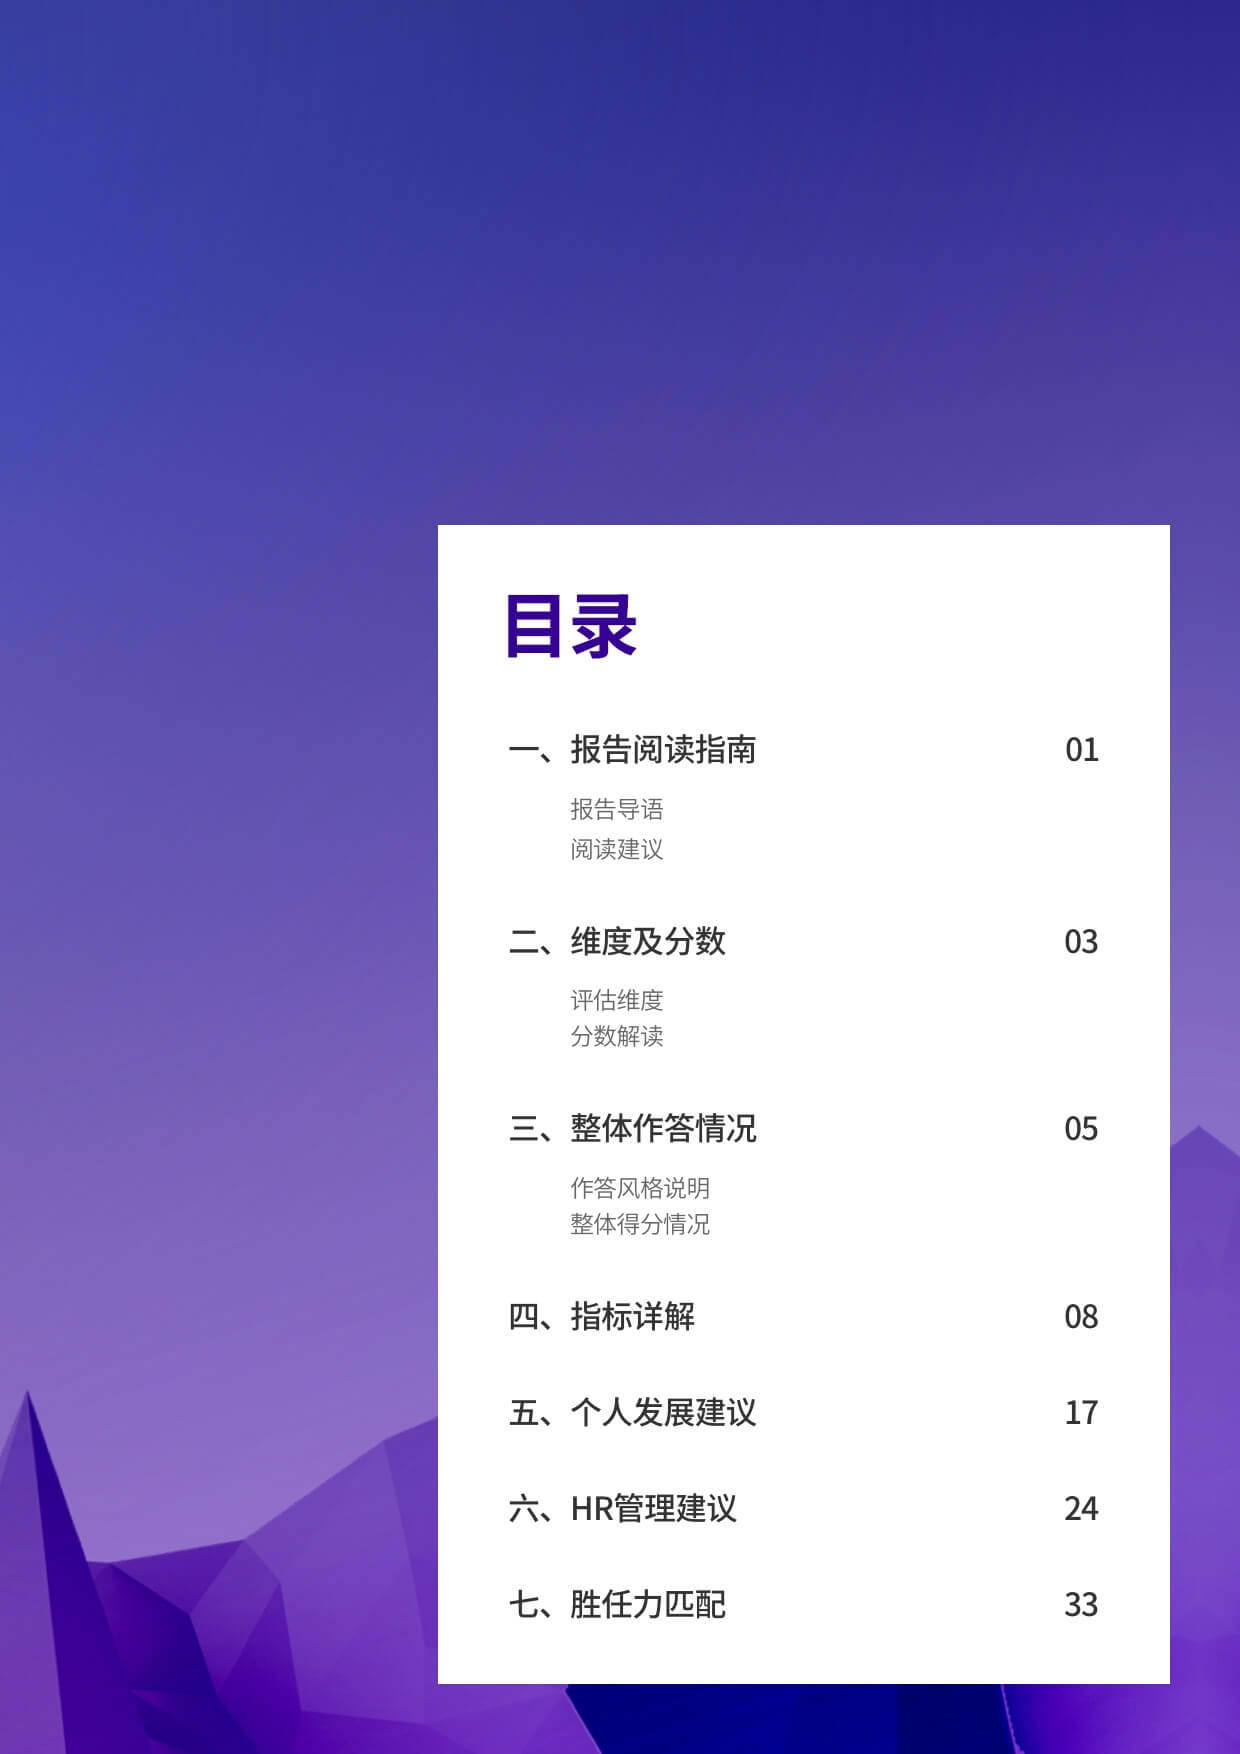
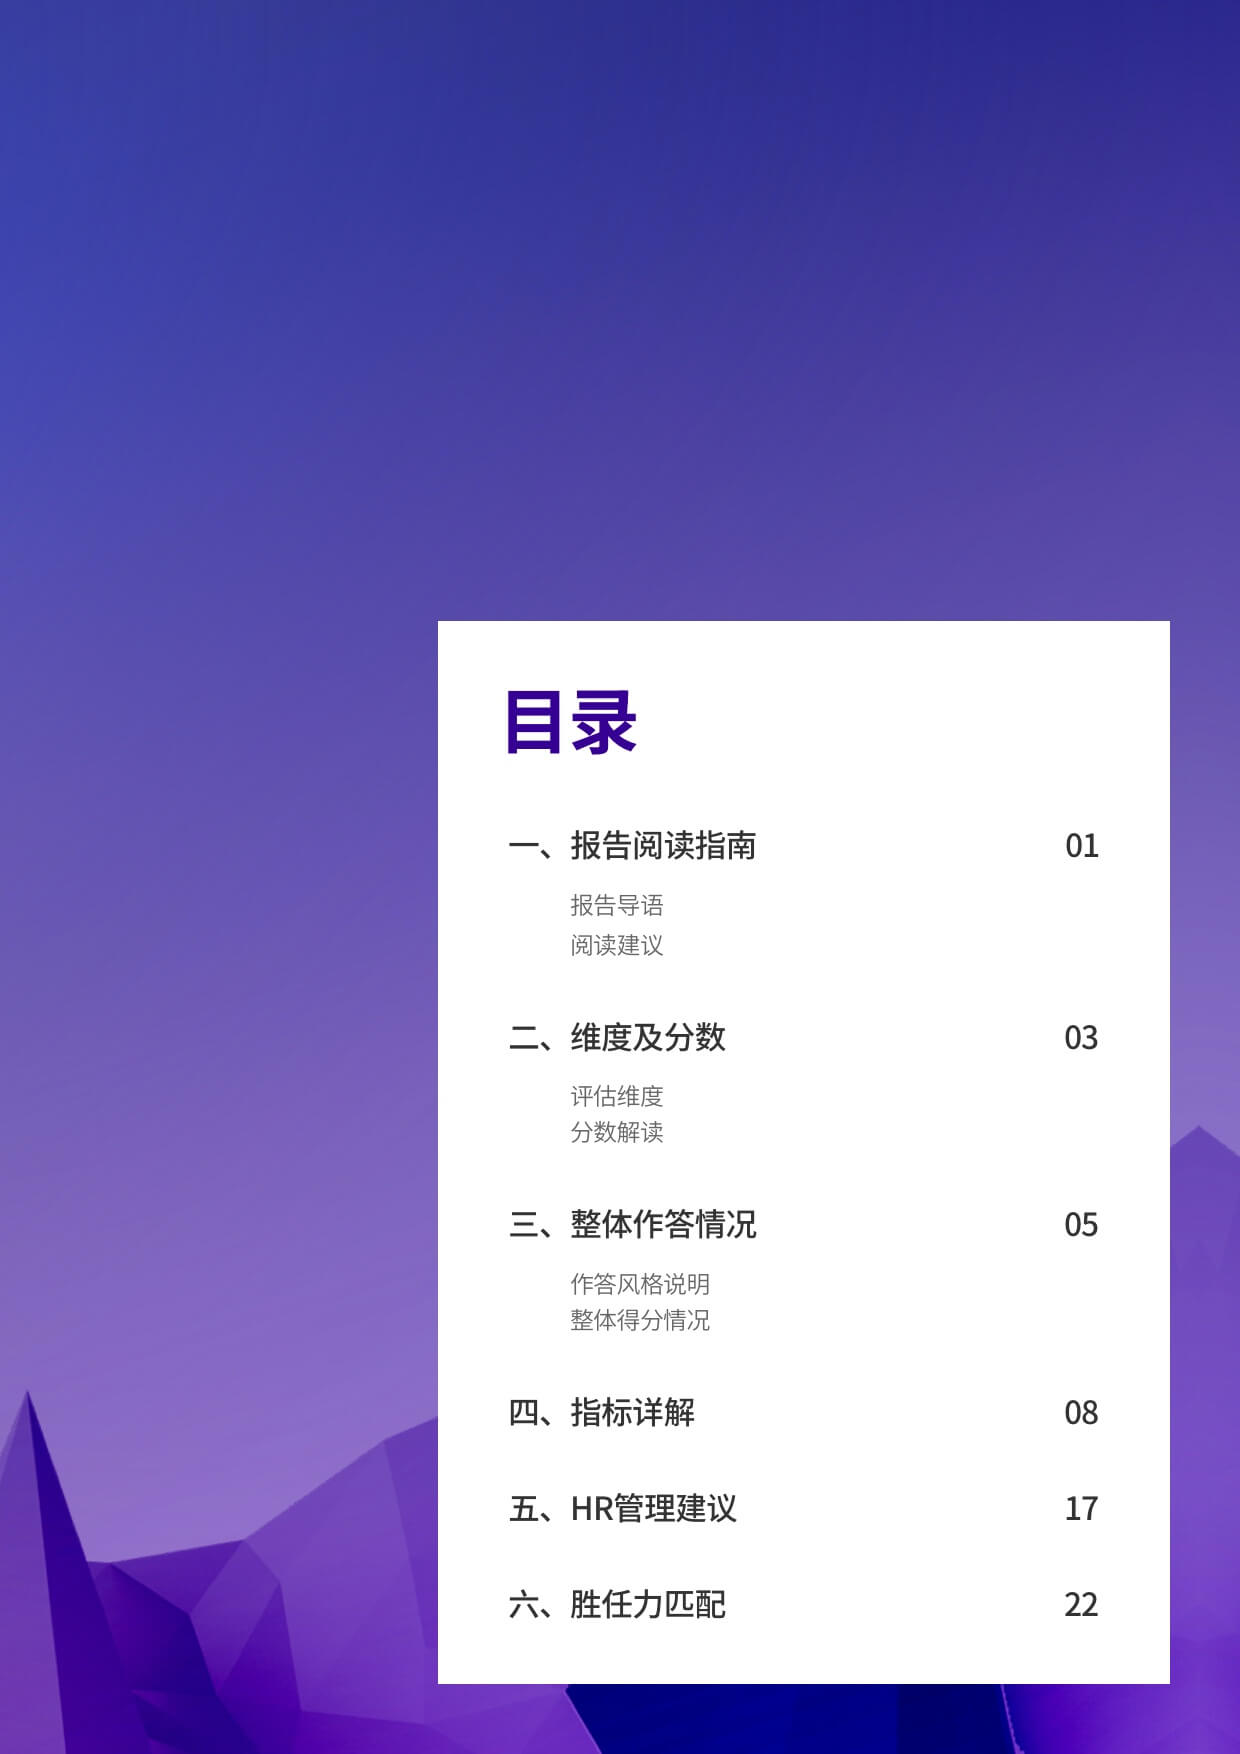
对齐页码 删除 Part...

diff --git a/pdf-1-4-recruitment/pdf.html b/pdf-1-4-recruitment/pdf.html
@@ -229,7 +229,7 @@
       <!-- 页眉 -->
       <div class="page-header">
         <div class="header-text">
-          Part 4 结果详解
+          
         </div>
         <div class="header-img">
           <img src="./static/logo.png" alt="">
@@ -293,7 +293,7 @@
       <!-- 页眉 -->
       <div class="page-header">
         <div class="header-text">
-          Part 4 结果详解
+          
         </div>
         <div class="header-img">
           <img src="./static/logo.png" alt="">
@@ -360,7 +360,7 @@
       <!-- 页眉 -->
       <div class="page-header">
         <div class="header-text">
-          Part 4 结果详解
+          
         </div>
         <div class="header-img">
           <img src="./static/logo.png" alt="">
@@ -427,7 +427,7 @@
       <!-- 页眉 -->
       <div class="page-header">
         <div class="header-text">
-          Part 4 结果详解
+          
         </div>
         <div class="header-img">
           <img src="./static/logo.png" alt="">
@@ -494,7 +494,7 @@
       <!-- 页眉 -->
       <div class="page-header">
         <div class="header-text">
-          Part 4 结果详解
+          
         </div>
         <div class="header-img">
           <img src="./static/logo.png" alt="">
@@ -522,7 +522,7 @@
         <div class="sug-big-dim" th:text="${child.name} + '   ' + ${child.englishName}">
           认知能力&nbsp;&nbsp;Cognitive Ability
         </div>
-        <div class="sug-one-dim" th:each="item:${child.suggestions}" th:if="${itemStat.index} < 4">
+        <div class="sug-one-dim" th:each="item:${child.suggestions}" th:if="${itemStat.index} < 3">
           <div class="sug-lil-dim" th:text="${item.name} + '   ' + ${item.englishName}">
             问题解决&nbsp;&nbsp;Problem Solving
           </div>
@@ -545,7 +545,7 @@
           版权所有：杭州扶摇职上教育科技有限公司
         </div>
         <div class="page-footer-right">
-          24
+          17
         </div>
       </div>
       <div class="page-header">
@@ -556,7 +556,7 @@
     </div>
     <div class="analysis">
       <div th:each="child:${data.managementSuggestions}" th:if="${childStat.index} == 0">
-        <div class="sug-one-dim" th:each="item:${child.suggestions}" th:if="${itemStat.index} > 3">
+        <div class="sug-one-dim" th:each="item:${child.suggestions}" th:if="${itemStat.index} > 2 and ${itemStat.index} < 6">
           <div class="sug-lil-dim" th:text="${item.name} + '   ' + ${item.englishName}">
             调整适应力&nbsp;&nbsp;Adaptive Capacity
           </div>
@@ -579,7 +579,7 @@
           版权所有：杭州扶摇职上教育科技有限公司
         </div>
         <div class="page-footer-right">
-          25
+          18
         </div>
       </div>
       <div class="page-header">
@@ -588,10 +588,9 @@
         </div>
       </div>
     </div>
-    <!-- 应该要隐藏 -->
     <div class="analysis">
       <div th:each="child:${data.managementSuggestions}" th:if="${childStat.index} == 0">
-        <div class="sug-one-dim" th:each="item:${child.suggestions}" th:if="${itemStat.index} > 3 and ${itemStat.index} < 6">
+        <div class="sug-one-dim" th:each="item:${child.suggestions}" th:if="${itemStat.index} > 5 and ${itemStat.index} < 9">
           <div class="sug-lil-dim" th:text="${item.name} + '   ' + ${item.englishName}">
             调整适应力&nbsp;&nbsp;Adaptive Capacity
           </div>
@@ -614,7 +613,7 @@
           版权所有：杭州扶摇职上教育科技有限公司
         </div>
         <div class="page-footer-right">
-          26
+          19
         </div>
       </div>
       <div class="page-header">
@@ -652,7 +651,7 @@
           版权所有：杭州扶摇职上教育科技有限公司
         </div>
         <div class="page-footer-right">
-          28
+          20
         </div>
       </div>
       <div class="page-header">
@@ -690,7 +689,7 @@
           版权所有：杭州扶摇职上教育科技有限公司
         </div>
         <div class="page-footer-right">
-          29
+          21
         </div>
       </div>
       <div class="page-header">
@@ -724,7 +723,7 @@
           版权所有：杭州扶摇职上教育科技有限公司
         </div>
         <div class="page-footer-right">
-          30
+          22
         </div>
       </div>
       <div class="page-header">
@@ -762,7 +761,7 @@
           版权所有：杭州扶摇职上教育科技有限公司
         </div>
         <div class="page-footer-right">
-          31
+          23
         </div>
       </div>
       <div class="page-header">

diff --git a/pdf-1-4-training/pdf.html b/pdf-1-4-training/pdf.html
@@ -229,7 +229,7 @@
       <!-- 页眉 -->
       <div class="page-header">
         <div class="header-text">
-          Part 4 结果详解
+          
         </div>
         <div class="header-img">
           <img src="./static/logo.png" alt="">
@@ -293,7 +293,7 @@
       <!-- 页眉 -->
       <div class="page-header">
         <div class="header-text">
-          Part 4 结果详解
+          
         </div>
         <div class="header-img">
           <img src="./static/logo.png" alt="">
@@ -360,7 +360,7 @@
       <!-- 页眉 -->
       <div class="page-header">
         <div class="header-text">
-          Part 4 结果详解
+          
         </div>
         <div class="header-img">
           <img src="./static/logo.png" alt="">
@@ -427,7 +427,7 @@
       <!-- 页眉 -->
       <div class="page-header">
         <div class="header-text">
-          Part 4 结果详解
+          
         </div>
         <div class="header-img">
           <img src="./static/logo.png" alt="">
@@ -494,7 +494,7 @@
       <!-- 页眉 -->
       <div class="page-header">
         <div class="header-text">
-          Part 4 结果详解
+          
         </div>
         <div class="header-img">
           <img src="./static/logo.png" alt="">
@@ -540,7 +540,7 @@
           版权所有：杭州扶摇职上教育科技有限公司
         </div>
         <div class="page-footer-right">
-          24
+          17
         </div>
       </div>
       <div class="page-header">
@@ -569,7 +569,7 @@
           版权所有：杭州扶摇职上教育科技有限公司
         </div>
         <div class="page-footer-right">
-          25
+          18
         </div>
       </div>
       <div class="page-header">
@@ -602,7 +602,7 @@
           版权所有：杭州扶摇职上教育科技有限公司
         </div>
         <div class="page-footer-right">
-          28
+          19
         </div>
       </div>
       <div class="page-header">
@@ -635,7 +635,7 @@
           版权所有：杭州扶摇职上教育科技有限公司
         </div>
         <div class="page-footer-right">
-          29
+          20
         </div>
       </div>
       <div class="page-header">
@@ -668,7 +668,7 @@
           版权所有：杭州扶摇职上教育科技有限公司
         </div>
         <div class="page-footer-right">
-          31
+          21
         </div>
       </div>
       <div class="page-header">

diff --git a/pdf-1-4-complete/pdf.html b/pdf-1-4-complete/pdf.html
@@ -229,7 +229,7 @@
       <!-- 页眉 -->
       <div class="page-header">
         <div class="header-text">
-          Part 4 结果详解
+          
         </div>
         <div class="header-img">
           <img src="./static/logo.png" alt="">
@@ -293,7 +293,7 @@
       <!-- 页眉 -->
       <div class="page-header">
         <div class="header-text">
-          Part 4 结果详解
+          
         </div>
         <div class="header-img">
           <img src="./static/logo.png" alt="">
@@ -360,7 +360,7 @@
       <!-- 页眉 -->
       <div class="page-header">
         <div class="header-text">
-          Part 4 结果详解
+          
         </div>
         <div class="header-img">
           <img src="./static/logo.png" alt="">
@@ -427,7 +427,7 @@
       <!-- 页眉 -->
       <div class="page-header">
         <div class="header-text">
-          Part 4 结果详解
+          
         </div>
         <div class="header-img">
           <img src="./static/logo.png" alt="">
@@ -494,7 +494,7 @@
       <!-- 页眉 -->
       <div class="page-header">
         <div class="header-text">
-          Part 4 结果详解
+          
         </div>
         <div class="header-img">
           <img src="./static/logo.png" alt="">

diff --git a/pdf-1-4-personal/pdf.html b/pdf-1-4-personal/pdf.html
@@ -229,7 +229,7 @@
       <!-- 页眉 -->
       <div class="page-header">
         <div class="header-text">
-          Part 4 结果详解
+          
         </div>
         <div class="header-img">
           <img src="./static/logo.png" alt="">
@@ -293,7 +293,7 @@
       <!-- 页眉 -->
       <div class="page-header">
         <div class="header-text">
-          Part 4 结果详解
+          
         </div>
         <div class="header-img">
           <img src="./static/logo.png" alt="">
@@ -360,7 +360,7 @@
       <!-- 页眉 -->
       <div class="page-header">
         <div class="header-text">
-          Part 4 结果详解
+          
         </div>
         <div class="header-img">
           <img src="./static/logo.png" alt="">
@@ -427,7 +427,7 @@
       <!-- 页眉 -->
       <div class="page-header">
         <div class="header-text">
-          Part 4 结果详解
+          
         </div>
         <div class="header-img">
           <img src="./static/logo.png" alt="">
@@ -494,7 +494,7 @@
       <!-- 页眉 -->
       <div class="page-header">
         <div class="header-text">
-          Part 4 结果详解
+          
         </div>
         <div class="header-img">
           <img src="./static/logo.png" alt="">

diff --git a/README.MD b/README.MD
@@ -4,14 +4,21 @@
 
 ## pdf 1-5
 
-完整版本(有个css问题修改了暂时没有测试) done 
-培训版本(有个css问题修改了暂时没有测试) done
-个人版本(有个css问题修改了暂时没有测试) done
-招聘版本(有个css问题修改了暂时没有测试) done
+pdf-complete 完整版本(有个css问题修改了暂时没有测试) done 
+pdf-training 培训版本(有个css问题修改了暂时没有测试) done
+pdf-personal 个人版本(有个css问题修改了暂时没有测试) done
+pdf-recruitment 招聘版本(有个css问题修改了暂时没有测试) done
 
 ## pdf 1-4
 
-完整版本(有个css问题修改了暂时没有测试) done  `页码问题`
-培训版本(有个css问题修改了暂时没有测试) 
-个人版本 done  `页码问题`
-招聘版本(有个css问题修改了暂时没有测试)
+pdf-1-4-complete 完整版本(有个css问题修改了暂时没有测试) done
+pdf-1-4-training 培训版本(有个css问题修改了暂时没有测试) 
+pdf-1-4-personal 个人版本 done  `页码问题`
+pdf-1-4-recruitment 招聘版本(有个css问题修改了暂时没有测试)
+
+
+## 需要 UI 的切图
+
+1. pdf-1-4-personal  目录切图 个人发展建议 17 无HR管理建议 无胜任力匹配
+2. pdf-1-4-recruitment  目录切图 无个人发展建议 HR管理建议 17 胜任力匹配 24
+3. pdf-1-4-training 目录切图 无个人发展建议 HR管理建议 17 胜任力匹配 22
